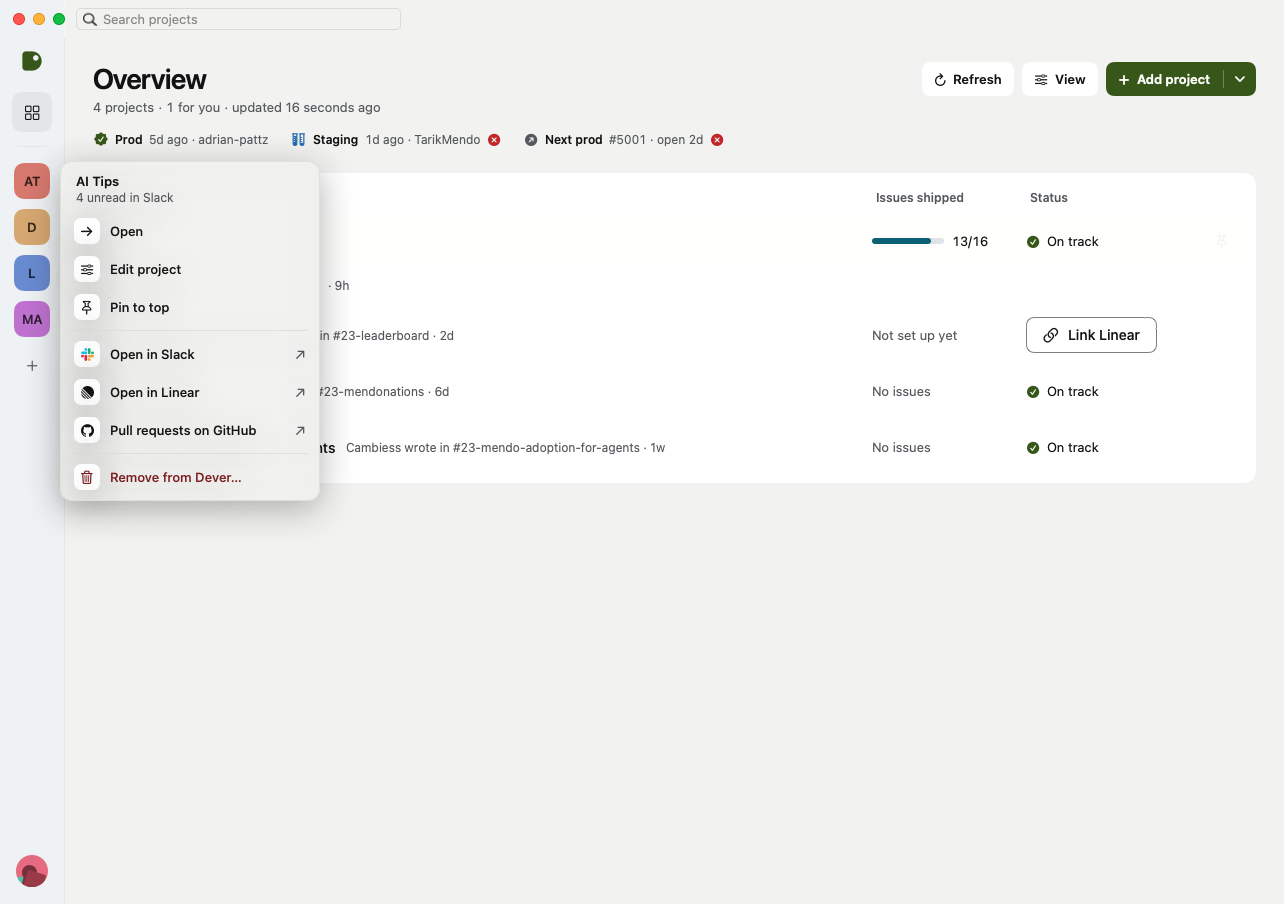
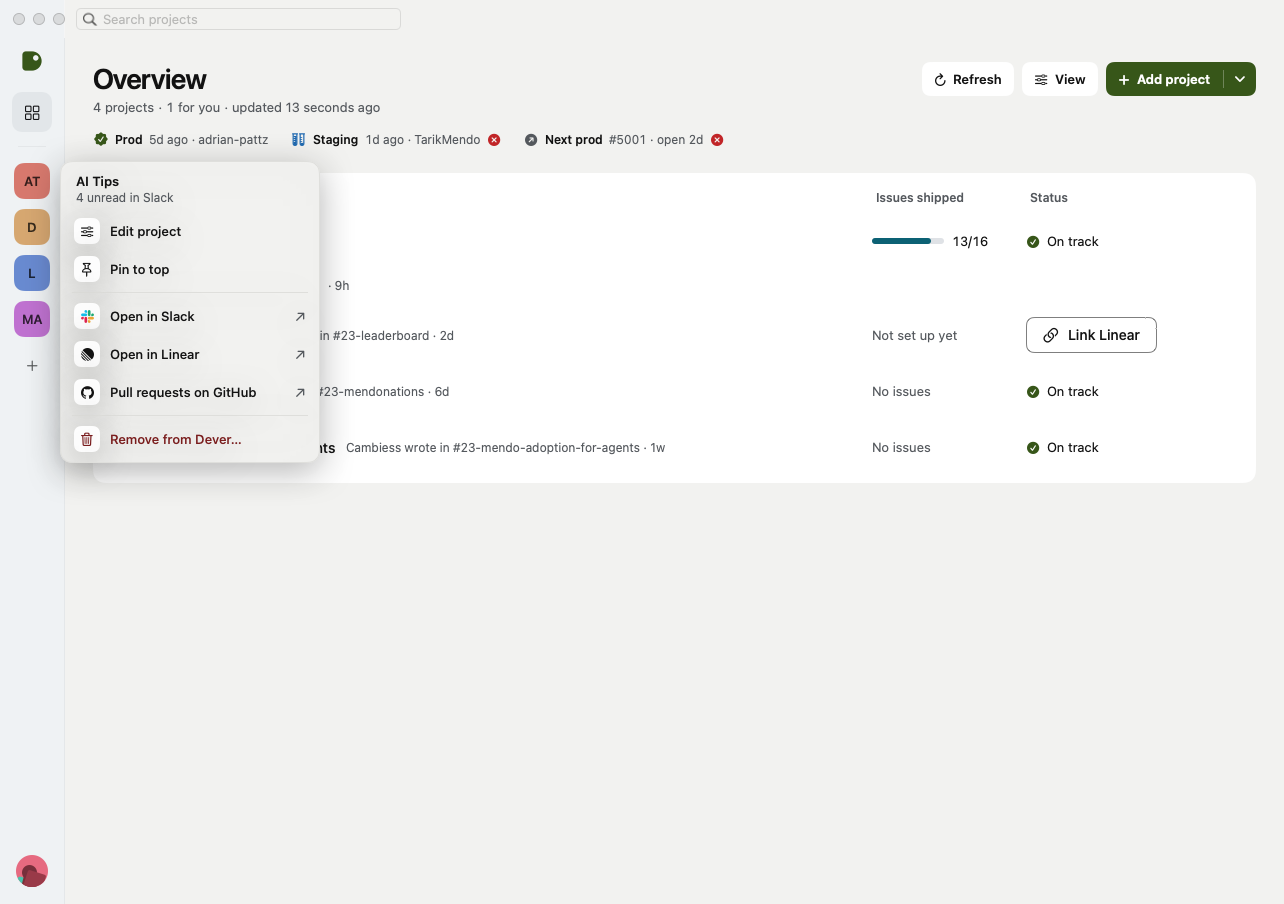
Rail menu: no Open row; a left click on the tile already opens it

diff --git a/Sources/Dever/Views/ContentView.swift b/Sources/Dever/Views/ContentView.swift
@@ -191,9 +191,8 @@ struct ContentView: View {
         GeometryReader { geo in
             if let anchor, let project = menuProject {
                 let bounds = geo[anchor]
-                RailMenu(project: project, isCurrent: selection == .project(project.id),
+                RailMenu(project: project,
                          unread: store.snapshots[project.id]?.slack?.unread,
-                         open: { selection = .project(project.id); menuProject = nil },
                          edit: { menuProject = nil; editing = project },
                          remove: { menuProject = nil; removing = project },
                          close: { menuProject = nil })
@@ -415,14 +414,13 @@ private struct RailMenuKey: PreferenceKey {
     static func reduce(value: inout Anchor<CGRect>?, nextValue: () -> Anchor<CGRect>?) { value = nextValue() ?? value }
 }
 
-/// A project tile's menu, in the app's own panel: open, edit, pin, the tools it links, and
-/// last, in the negative tone, removing it from Dever (the confirmation stays the same).
+/// A project tile's menu, in the app's own panel: edit, pin, the tools it links, and last, in
+/// the negative tone, removing it from Dever (the confirmation stays the same). No "Open":
+/// a left click on the tile already does that.
 private struct RailMenu: View {
     @EnvironmentObject var app: AppState
     let project: Project
-    let isCurrent: Bool
     let unread: Int?
-    let open: () -> Void
     let edit: () -> Void
     let remove: () -> Void
     let close: () -> Void
@@ -445,7 +443,6 @@ private struct RailMenu: View {
     var body: some View {
         MenuPanel(label: "\(project.name) menu") {
             MenuPanelHead(title: project.name, detail: unread.map { $0 > 0 ? "\($0) unread in Slack" : "Nothing unread" })
-            if !isCurrent { MenuPanelRow(symbol: "arrow.right", title: "Open", action: open) }
             MenuPanelRow(symbol: "slider.horizontal.3", title: "Edit project", action: edit)
             MenuPanelRow(symbol: project.favorite == true ? "pin.slash" : "pin",
                          title: project.favorite == true ? "Unpin from top" : "Pin to top") {

diff --git a/docs/reviews/buttons.md b/docs/reviews/buttons.md
@@ -85,7 +85,7 @@ has N H P D F ✋ through its style unless noted.
 |---|---|---|---|
 | — | Overview tile | PressButton + FocusOutline: N P F, selected | Icon (`fill: nil`, radius 10) + hover tone; `sootTip("Overview")` |
 | — | Project tiles (initials) | PressButton + FocusOutline: N P F, selected, system context menu | Icon (`fill: nil`, radius 12); `sootTip(name, detail: health · unread · for you)`; right click / control click / ⌥↩ open the in-window `RailMenu` (`MenuPanel`); VoiceOver gets Edit, Pin/Unpin and Remove as actions on the tile |
-| — | `RailMenu` rows: Open, Edit project, Pin/Unpin, Open in Slack ↗, Open in Linear ↗, Pull requests on GitHub ↗, Remove from Dever… | system `contextMenu` (Edit links…, Remove from Dever…) | `MenuPanelRow` (row role, surface lift; links carry ↗; Remove in the negative tone, same confirmation dialog as the editor's Remove project) |
+| — | `RailMenu` rows: Edit project, Pin/Unpin, Open in Slack ↗, Open in Linear ↗, Pull requests on GitHub ↗, Remove from Dever… | system `contextMenu` (Edit links…, Remove from Dever…) | `MenuPanelRow` (row role, surface lift; links carry ↗; Remove in the negative tone, same confirmation dialog as the editor's Remove project) |
 | — | User / Settings tile | PressButton + FocusOutline | Icon (`fill: nil`, circle); `sootTip(name, detail: accounts hint)` |
 | — | "+" add project | PressButton, no focus ring | Icon (`fill: nil`, radius 10); `sootTip("Add a project", "⌘N")` |
 | — | Dever mark | `.help` | `sootTip("Dever", detail: workspace)` (not a button) |
